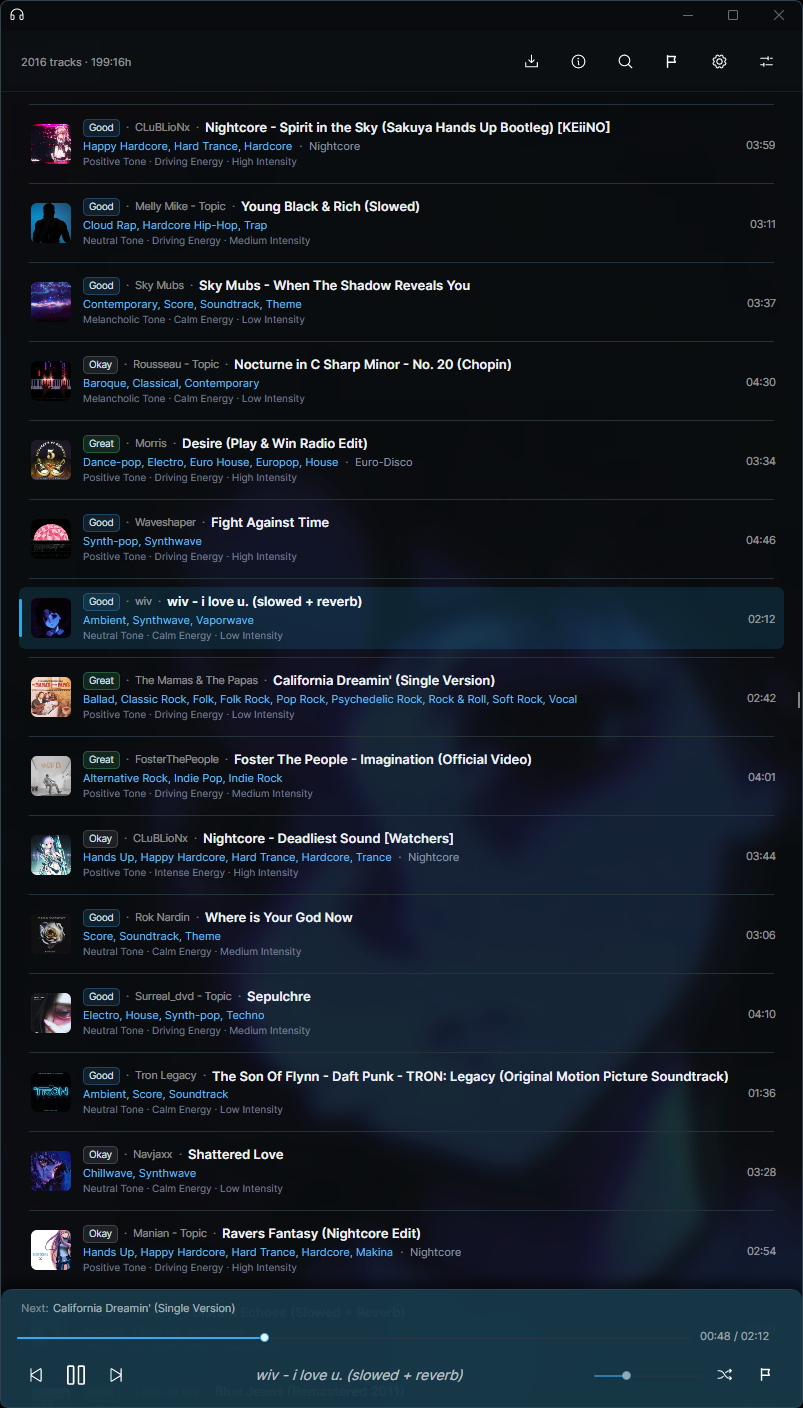
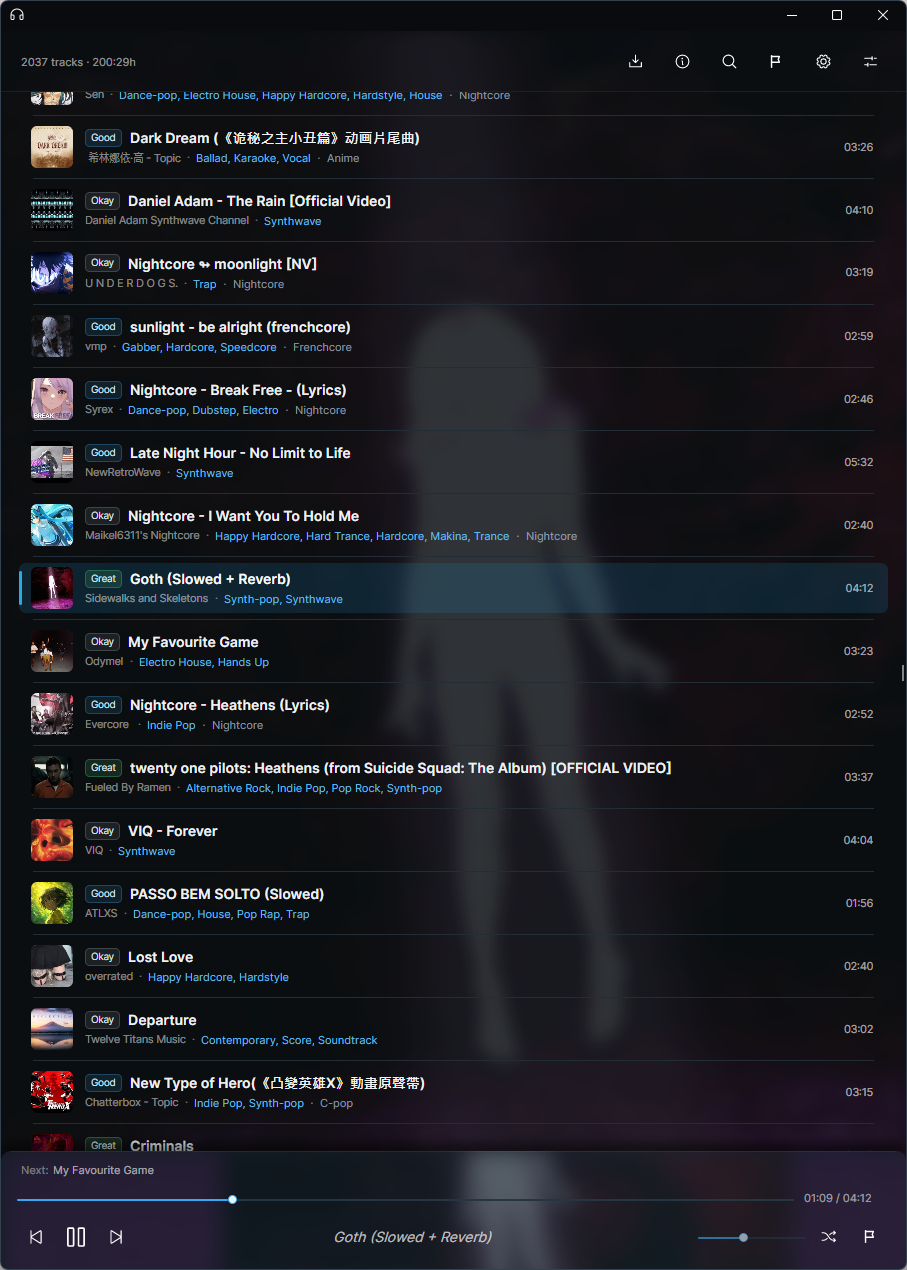
readme

diff --git a/README.md b/README.md
@@ -10,6 +10,4 @@ The app is built around everyday library work: listening, searching, filtering, 
 
 ![Library view](Docs/images/library.png)
 
-![Track editor - classification](Docs/images/edit-classification.png)
-
-![Track editor - analysis](Docs/images/edit-analysis.png)
+![Track editor](Docs/images/edit.png)
